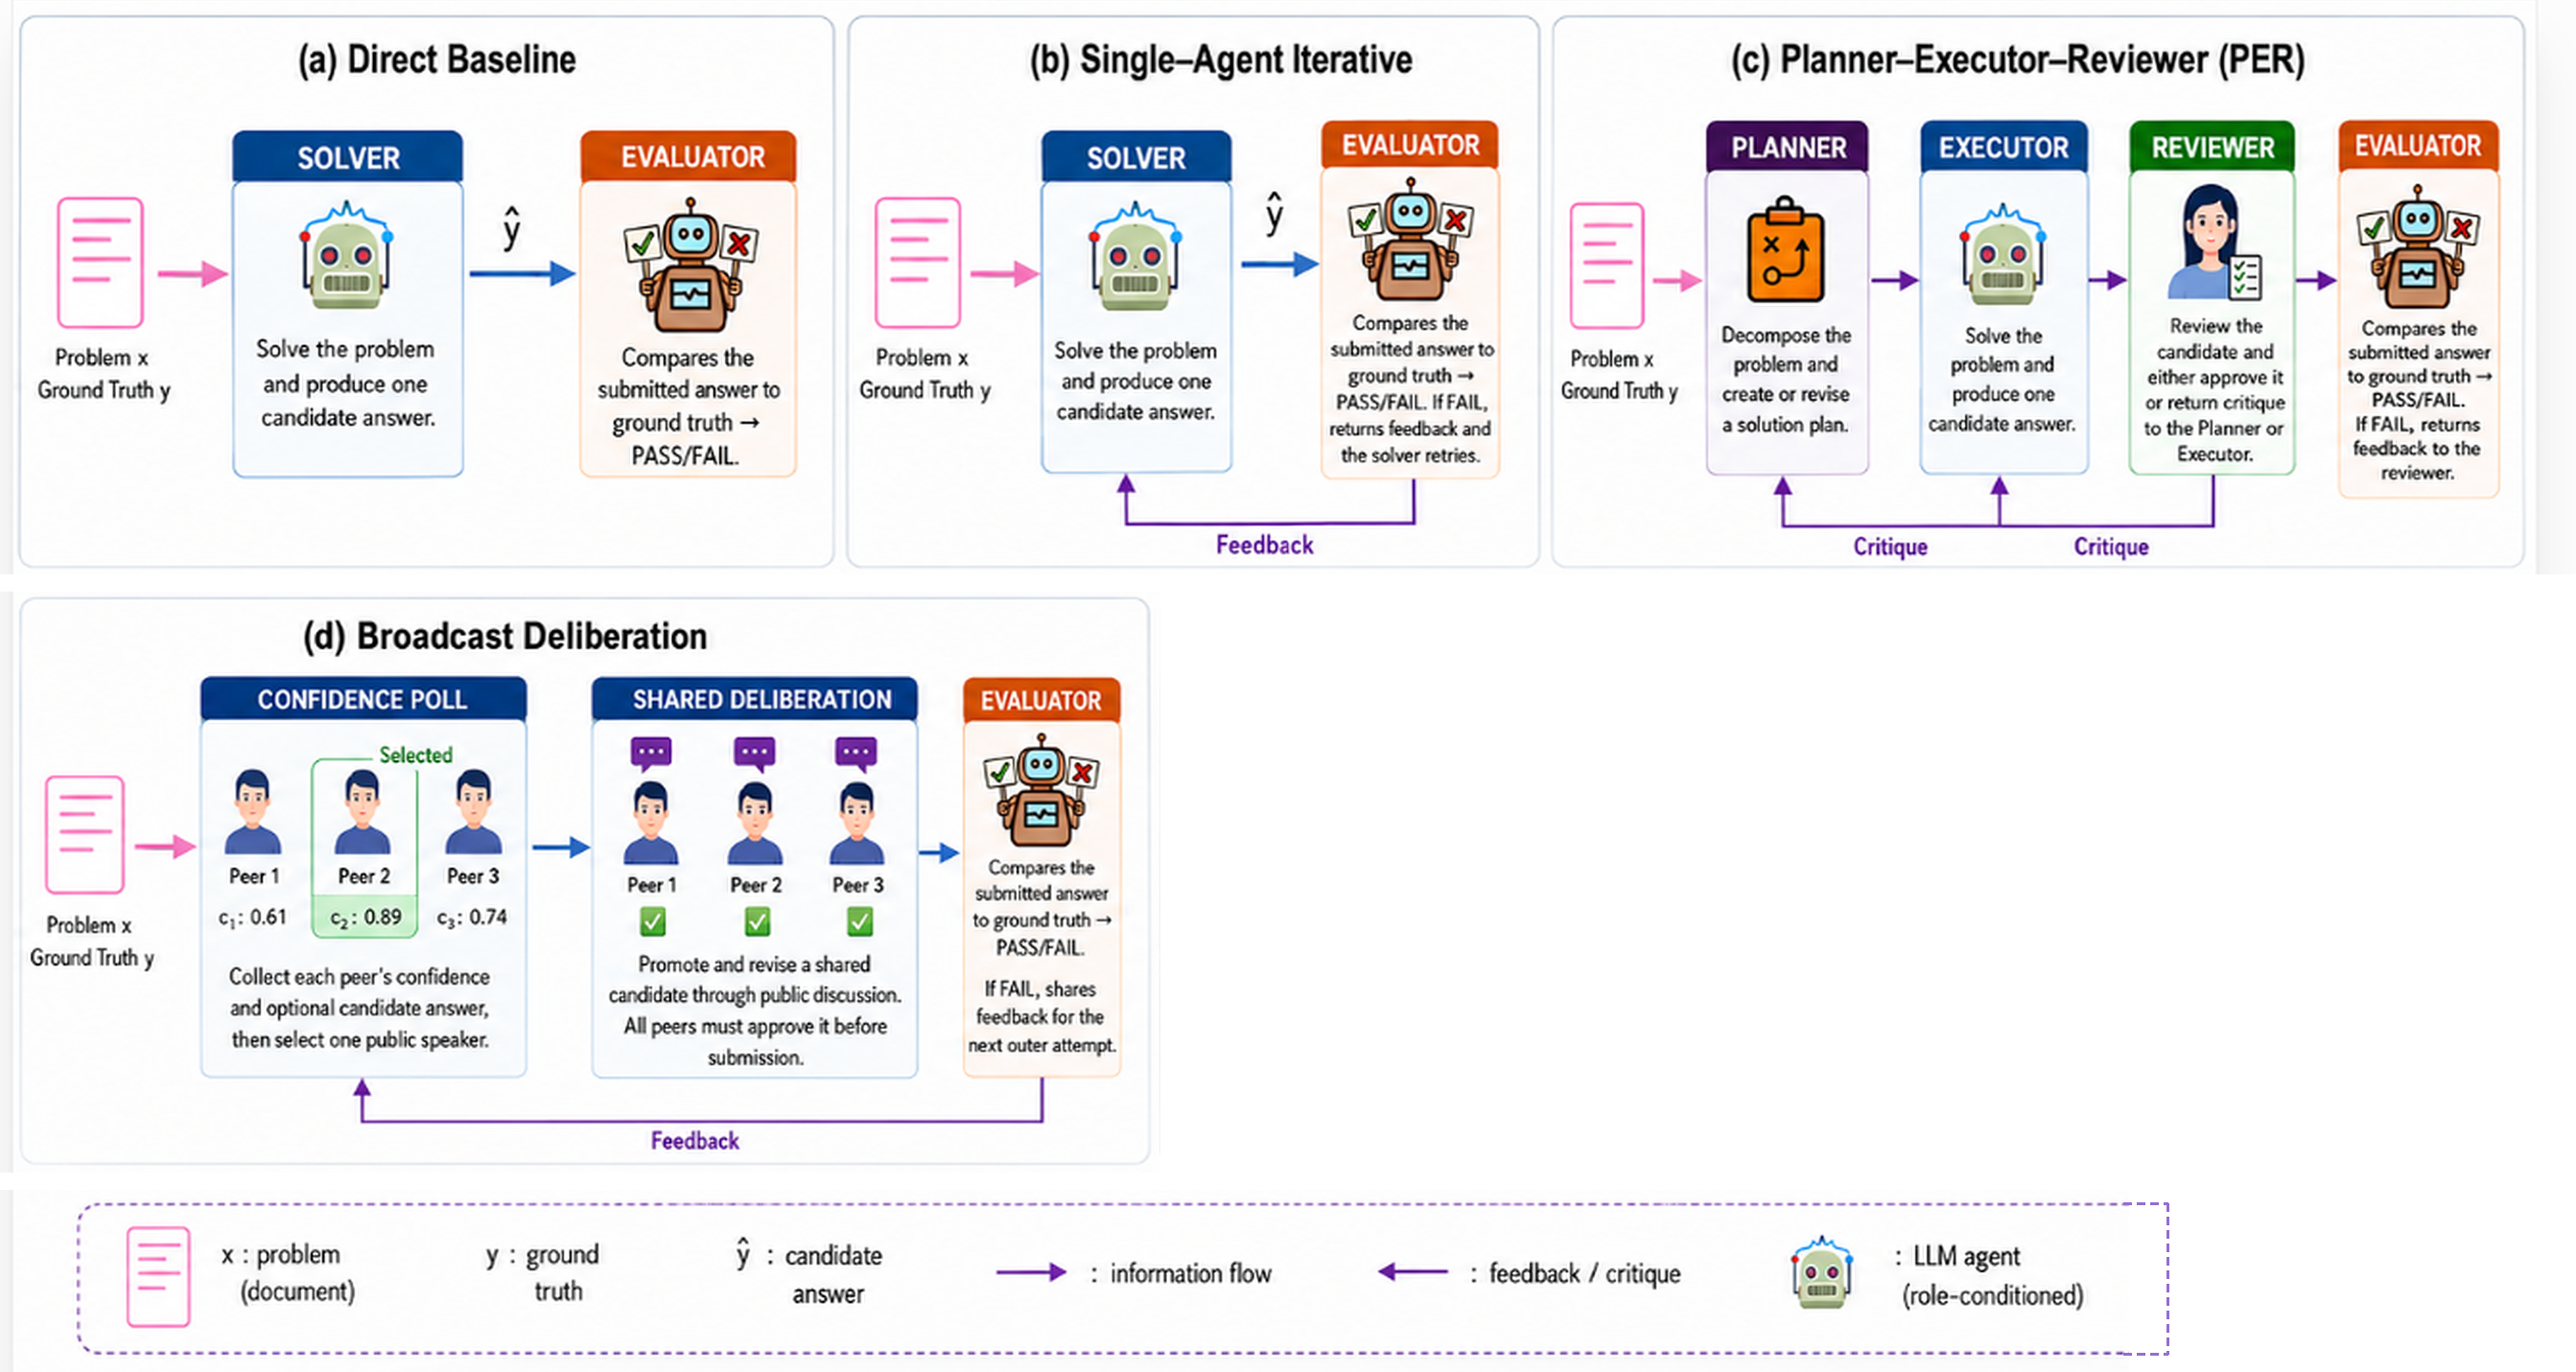
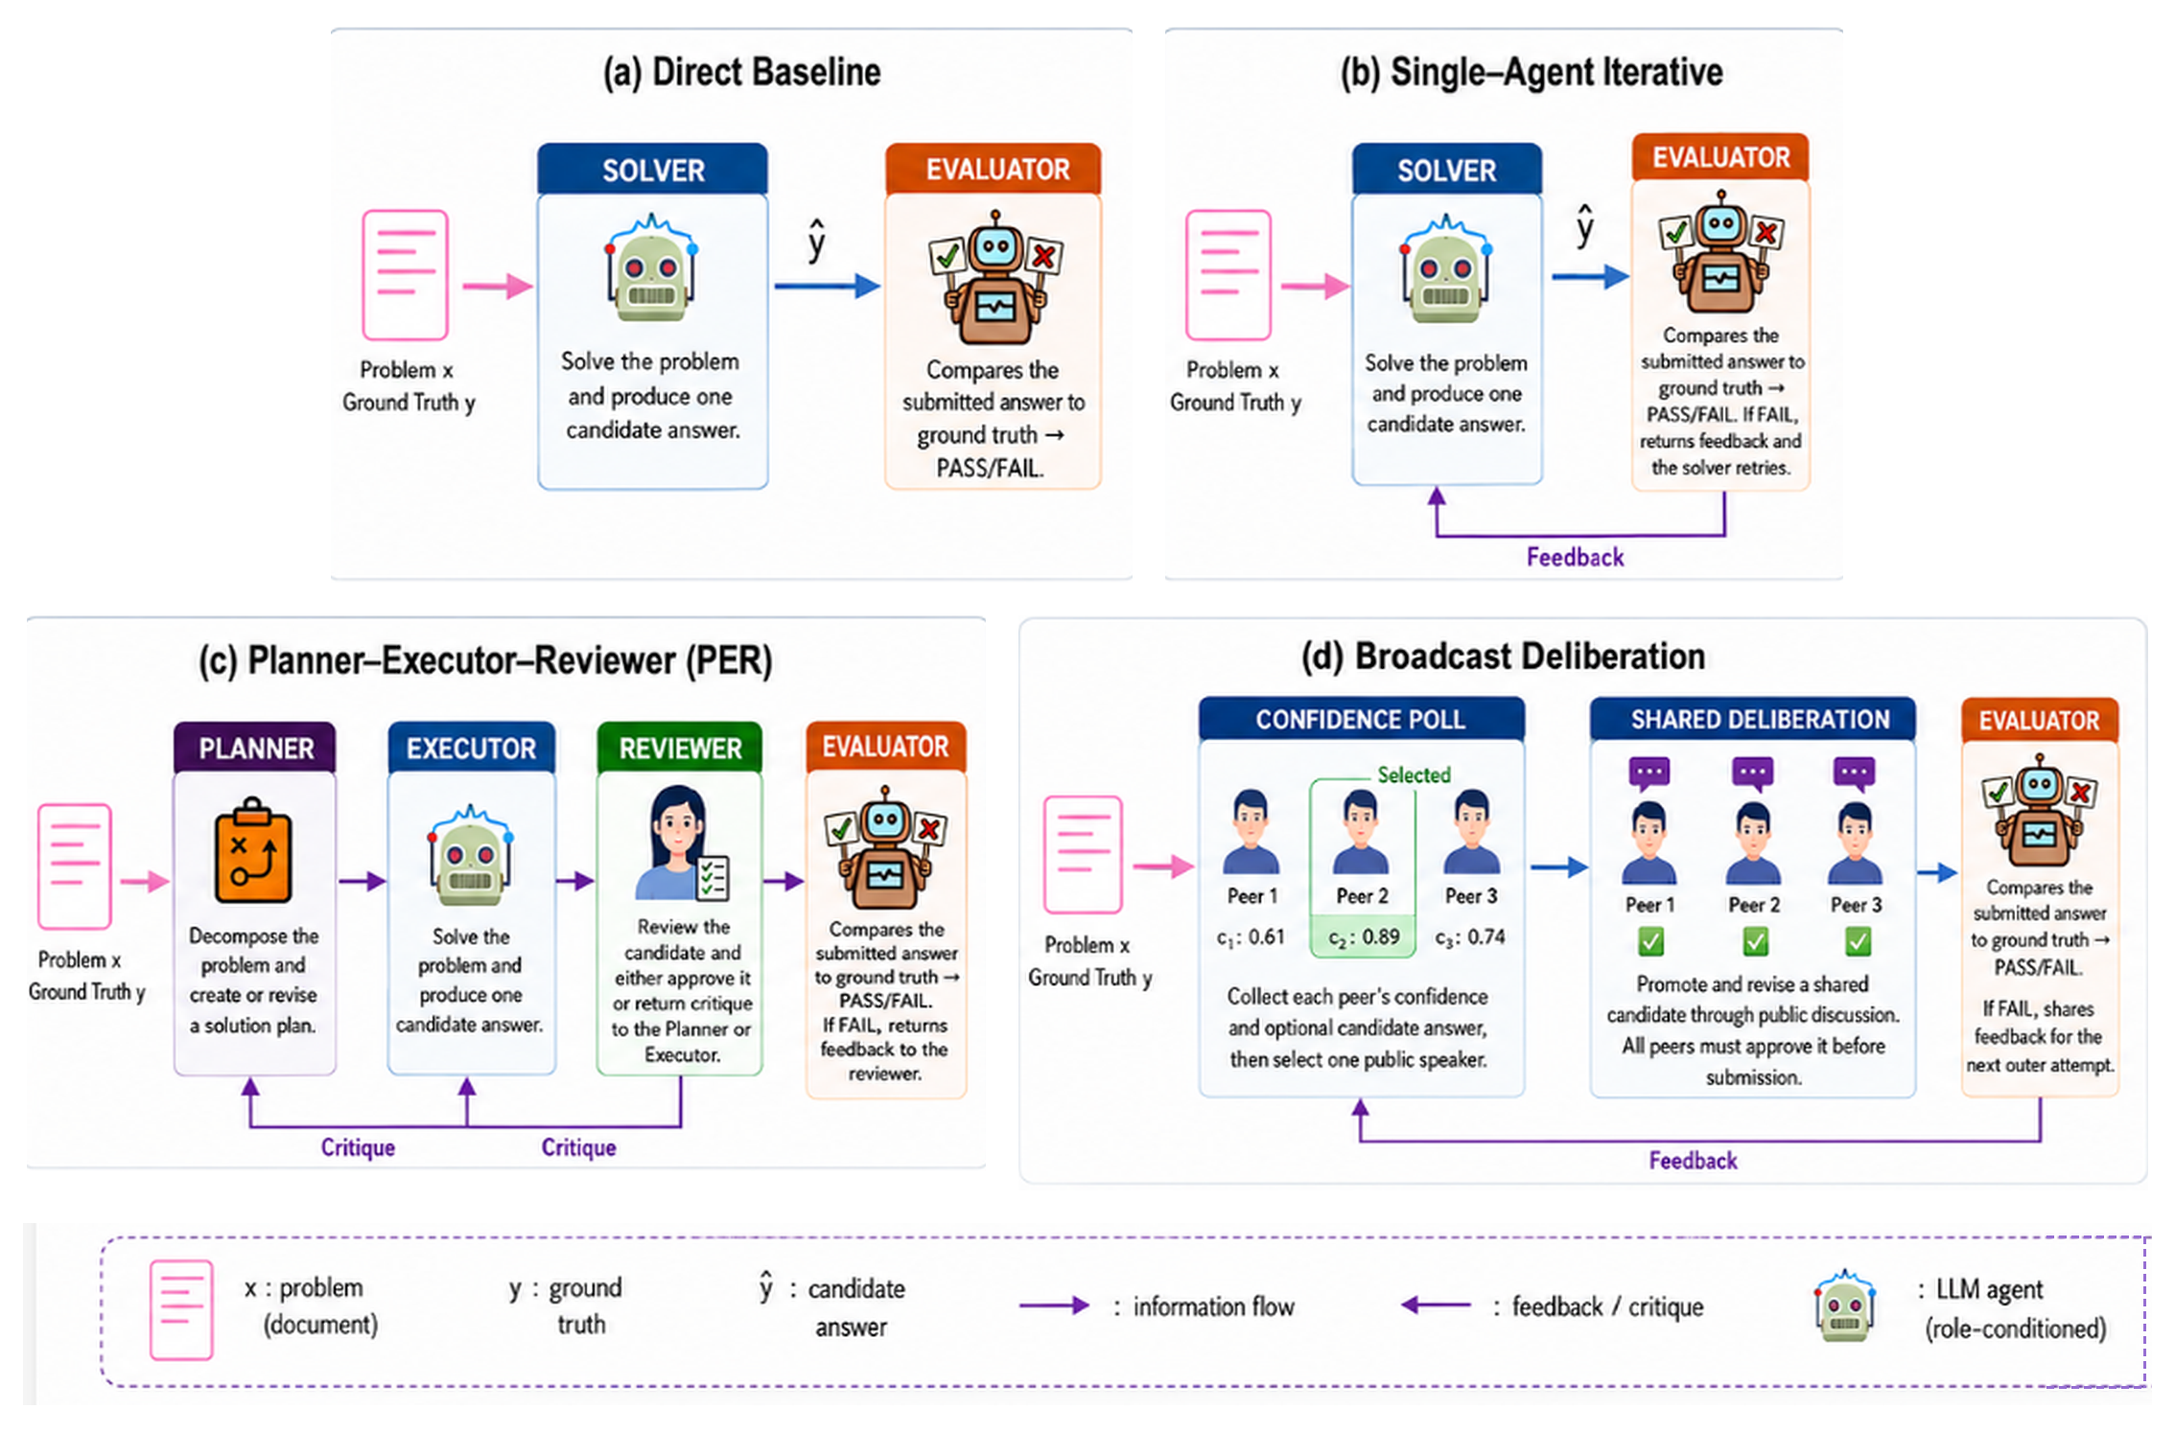
Rebalance the protocol diagram into a 2x2 grid

Changed region(s): [[0.0, 0.0, 0.9877, 1.0], [0.8951, 0.8917, 0.9877, 0.9839], [0.9568, 0.8609, 0.9877, 0.8917]]

diff --git a/index.html b/index.html
@@ -319,7 +319,7 @@
     <figure class="protofig">
       <img src="fig_protocols.png"
            alt="Information-flow diagram of the four protocols. (a) Direct Baseline: the problem goes to a Solver, which produces one candidate answer that an Evaluator compares against ground truth. (b) Single-Agent Iterative: the same Solver-Evaluator pair, with a feedback path returning to the Solver for up to three attempts. (c) Planner-Executor-Reviewer: the problem passes through a Planner, an Executor, and a Reviewer, with critique paths routing back to the Planner or Executor before the Evaluator sees a submission. (d) Broadcast Deliberation: three peers report confidence, one is selected as public speaker, the peers revise a shared candidate through discussion until all approve, and the Evaluator returns feedback for the next attempt. The reference answer is visible only to the Evaluator in every protocol."
-           width="2686" height="1431" loading="lazy" decoding="async">
+           width="2268" height="1494" loading="lazy" decoding="async">
       <figcaption>
         Principal information-flow paths in the four protocols. Arrows abstract
         information flow rather than exact call multiplicity: an outer round may
